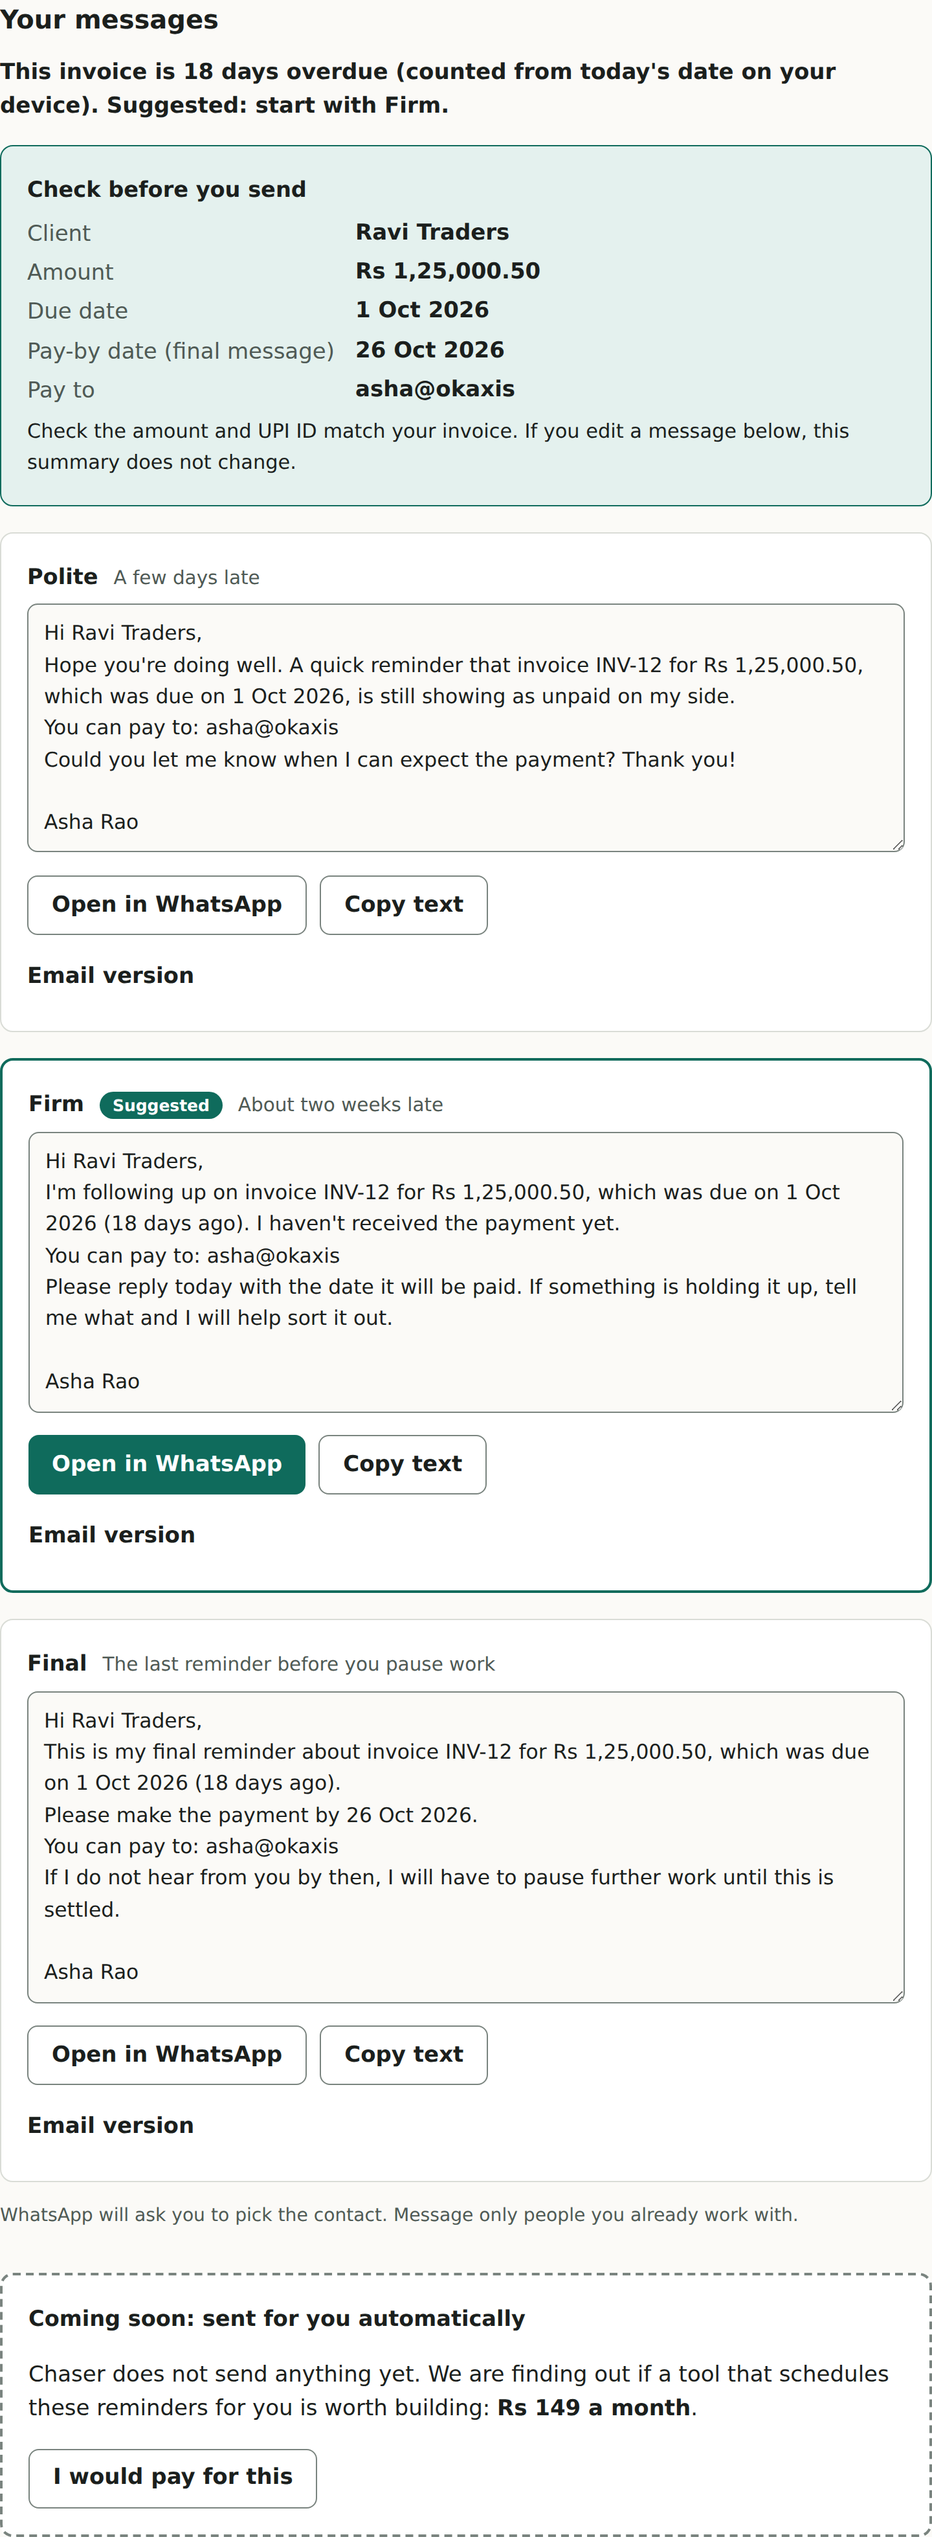
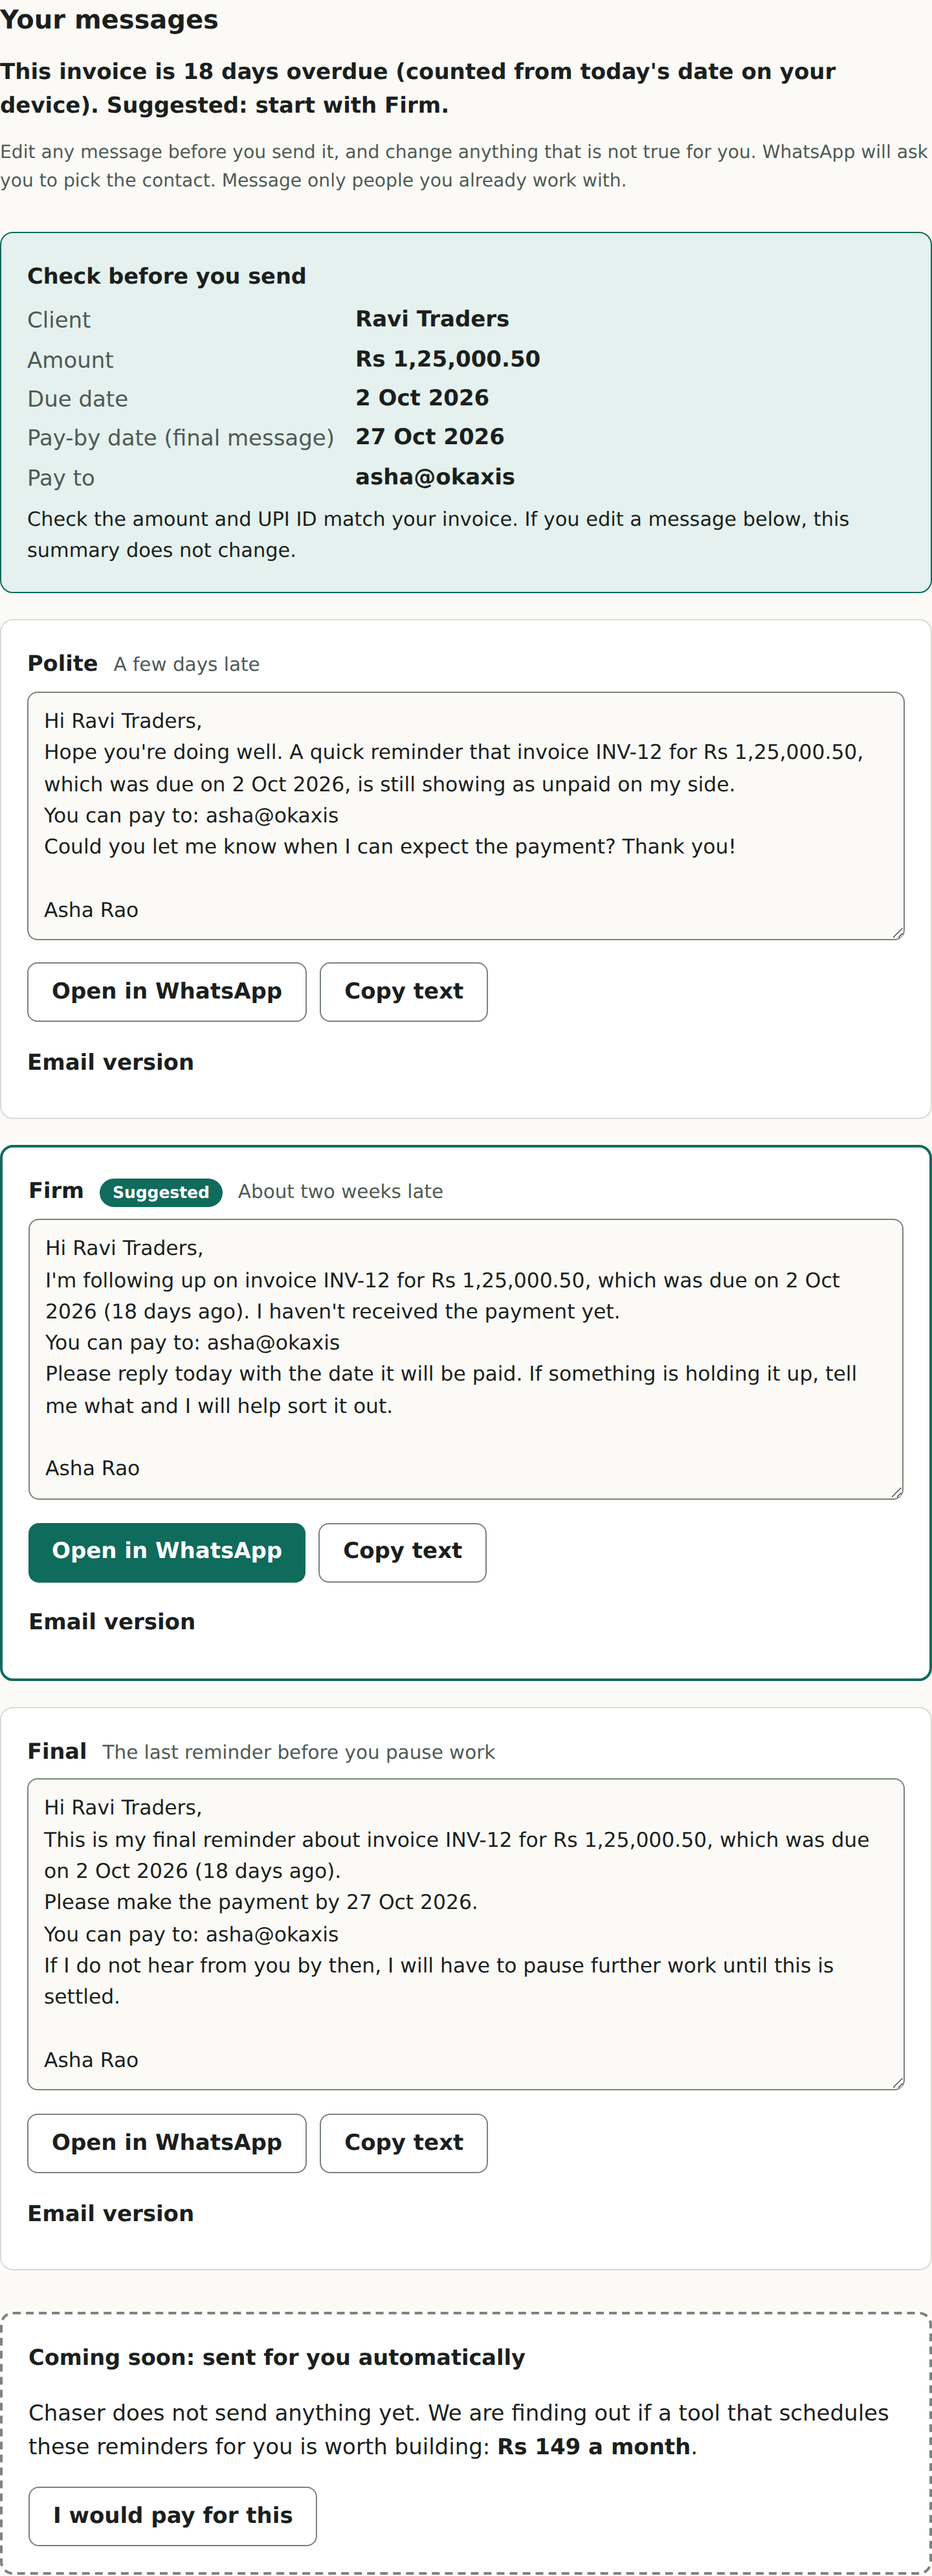
chaser: designer pass round two: rupee sign, copy email, focus after the paid-plan question, hint moved up
Claude-Session: https://claude.ai/code/session_01KHRvdBp9dNMhM5LyW9cT2y

diff --git a/examples/chaser/public/app.js b/examples/chaser/public/app.js
@@ -130,11 +130,17 @@ function messageCard(m, suggested) {
 
   const mail = el("a", { class: "btn", href: mailtoLink(m.email), text: "Open in email" });
   mail.addEventListener("click", () => { track("open_email", m.tone); askSent(); });
+  const copyMail = el("button", { type: "button", class: "secondary", text: "Copy email", "aria-label": `Copy the ${m.label.toLowerCase()} email, subject and text` });
+  copyMail.addEventListener("click", async () => {
+    try { await navigator.clipboard.writeText(`Subject: ${m.email.subject}\n\n${m.email.body}`); say(`${m.label} email copied.`); }
+    catch { say("Copying is blocked here. Select the email text and copy it with your keyboard."); }
+    track("copy", m.tone);
+  });
   const details = el("details", { class: "email" },
     el("summary", { text: "Email version" }),
     el("p", {}, el("strong", { text: "Subject: " }), m.email.subject),
     el("pre", { text: m.email.body }),
-    mail);
+    el("div", { class: "row" }, mail, copyMail));
   const card = el("article", { class: suggested ? "card msg suggested" : "card msg" },
     el("h3", {}, m.label, suggested ? el("span", { class: "tag", text: "Suggested" }) : "", el("span", { class: "when", text: WHEN[m.tone] })),
     ta, el("div", { class: "row" }, wa, copy), details, asked);
@@ -155,6 +161,7 @@ $("pay-intent").addEventListener("click", () => {
   } else {
     $("door-thanks").textContent = "Thanks, noted. It does not exist yet, and the email list is not open.";
   }
+  $("door-thanks").focus();
 });
 
 $("wl").addEventListener("submit", async (e) => {

diff --git a/examples/chaser/public/index.html b/examples/chaser/public/index.html
@@ -68,6 +68,7 @@
   <section id="results" class="results" aria-labelledby="results-h" tabindex="-1" hidden>
     <h2 id="results-h">Your messages</h2>
     <p id="summary" class="summary"></p>
+    <p class="hint after">Edit any message before you send it, and change anything that is not true for you. WhatsApp will ask you to pick the contact. Message only people you already work with.</p>
     <div class="check card" aria-labelledby="check-h">
       <h3 id="check-h">Check before you send</h3>
       <dl id="check"></dl>
@@ -75,14 +76,13 @@
     </div>
     <div id="messages"></div>
     <p id="live" class="sr-only" role="status" aria-live="polite"></p>
-    <p class="hint after">WhatsApp will ask you to pick the contact. Message only people you already work with.</p>
 
     <aside id="door" class="card door" aria-labelledby="door-h">
       <h3 id="door-h">Coming soon: sent for you automatically</h3>
       <p>Chaser does not send anything yet. We are finding out if a tool that schedules these reminders for you is worth building: <strong id="price">Rs 149 a month</strong>.</p>
       <button type="button" id="pay-intent" class="secondary">I would pay for this</button>
       <div id="door-2" hidden>
-        <p id="door-thanks"></p>
+        <p id="door-thanks" tabindex="-1"></p>
         <form id="wl" novalidate autocomplete="off" hidden>
           <div class="field">
             <label for="email">Your email, to hear when it is ready</label>

diff --git a/examples/chaser/e2e/ui.e2e.js b/examples/chaser/e2e/ui.e2e.js
@@ -106,6 +106,20 @@ test("editing a message updates its WhatsApp link", async () => {
   await context.close();
 });
 
+test("review fixes: a rupee sign is accepted, the email text can be copied, and focus moves to the answer after the paid-plan question", async () => {
+  const { context, page } = await newPage(open, { permissions: ["clipboard-read", "clipboard-write"] });
+  await generate(page, { amount: "\u20b925,000" });
+  assert.match(await page.locator("#check").innerText(), /Rs 25,000/);
+  const card = page.locator("article.msg").nth(1);
+  await card.locator("summary").click();
+  await card.getByRole("button", { name: /Copy the firm email/ }).click();
+  const copied = await page.evaluate(() => navigator.clipboard.readText());
+  assert.match(copied, /^Subject: .+\n\n[\s\S]*Rs 25,000/);
+  await page.getByRole("button", { name: "I would pay for this" }).click();
+  assert.equal(await page.evaluate(() => document.activeElement?.id), "door-thanks");
+  await context.close();
+});
+
 test("validation: an error summary takes focus, fields are marked invalid, links jump to the field, errors clear when fixed", async () => {
   const { context, page } = await newPage();
   await page.getByRole("button", { name: "Write my messages" }).click();

diff --git a/examples/chaser/tests/core.test.js b/examples/chaser/tests/core.test.js
@@ -17,6 +17,7 @@ const text = (r) => r.messages.map((m) => `${m.whatsapp}\n${m.email.subject}\n${
 test("amounts: Indian grouping at every size, decimals only when typed", () => {
   const cases = [["1", "Rs 1"], ["999", "Rs 999"], ["1000", "Rs 1,000"], ["25000", "Rs 25,000"], ["125000", "Rs 1,25,000"],
     ["1,25,000.50", "Rs 1,25,000.50"], ["12345678", "Rs 1,23,45,678"], ["1000000000", "Rs 1,00,00,00,000"], ["0.5", "Rs 0.50"], ["Rs 5000", "Rs 5,000"]];
+  cases.push(["₹25,000", "Rs 25,000"], ["₹ 1,25,000.50", "Rs 1,25,000.50"]);
   for (const [input, want] of cases) assert.equal(formatRupees(parseAmountToPaise(input)), want, input);
 });
 

diff --git a/examples/chaser/src/core/format.js b/examples/chaser/src/core/format.js
@@ -5,7 +5,7 @@ export const MAX_RUPEES = 1_000_000_000; // Rs 100 crore
 /** "1,25,000.50" or "125000" -> amount in paise (integer), or null when not a valid positive amount. */
 export function parseAmountToPaise(text) {
   if (typeof text !== "string") return null;
-  const t = text.trim().replace(/^(rs\.?|inr)\s*/i, "");
+  const t = text.trim().replace(/^(₹|rs\.?|inr)\s*/i, "");
   if (!/^\d{1,3}(,\d{2,3})*(\.\d{1,2})?$|^\d+(\.\d{1,2})?$/.test(t)) return null;
   const [whole, frac = ""] = t.replace(/,/g, "").split(".");
   const paise = Number(whole) * 100 + Number(frac.padEnd(2, "0"));

diff --git a/examples/chaser/public/styles.css b/examples/chaser/public/styles.css
@@ -57,3 +57,6 @@ details.email { margin-top: 10px; } details.email summary { cursor: pointer; fon
 @media (max-width: 380px) { .wrap { padding: 0 12px; } }
 #results:focus { outline: none; }
 @media (prefers-reduced-motion: no-preference) { button, a.btn { transition: filter .12s, background .12s; } }
+
+#errors a { color: var(--error); }
+#door-thanks:focus { outline: none; }

diff --git a/examples/chaser/docs/design-critique.md b/examples/chaser/docs/design-critique.md
@@ -19,3 +19,26 @@ Reviewer: a fresh read-only subagent that did not build the page. It saw screens
 **Kept as is** (reviewer's "works" list): the headline and lede, plain "Rs" and Indian grouping, the single-column phone form with 46px inputs and visible labels, the error summary with jump links, the check block placed before the messages, the copy fallback, the honest "Chaser does not send anything yet" door copy.
 
 **Not checked by anyone:** real Android rendering and fonts, Devanagari and other Unicode names, the native Android date picker, the keyboard overlay, actual WhatsApp and mailto behaviour, the 200% zoom layout, hover states, load time. The automated checks (axe in light and dark, 375px width, 44px targets, keyboard-only path) passed after the changes.
+
+## Designer pass on the running page (second round, 2026-10-20)
+
+Evidence: `docs/screenshots/before/` (the build before the first critique, regenerated from commit 602c5f1) against `docs/screenshots/` (now). Two fresh read-only reviewers, neither of whom built the page. Their reports are findings, not instructions.
+
+**5-second test** (reviewer saw only the two first-screen screenshots). Got right: it turns one unpaid invoice into three reminders for WhatsApp and email, for freelancers in India. Hesitations: the privacy box asks for trust before any payoff; "send yourself" can read as "send to yourself"; the sample quote looks like a quotation, not example output; no button or preview of the three tones on the first screen. Not changed: the button sits below the form on purpose, and the date field format follows the visitor's browser (the screenshots use a US locale).
+
+**10-problem review** (reviewer drove the running page at 1100px and 375px, light and dark):
+
+| # | Finding | Status |
+|---|---|---|
+| 1 | Greeting uses the full client name ("Hi Ravi Kumar"), sample says "Hi Ravi" | **Open, owner decision.** First-word greetings break on "Dr Rao" and company names; a "what do you call them" field is the safer fix |
+| 2 | The rupee sign was rejected; a bare phone number is not a valid UPI ID | **Half fixed.** The rupee sign is now accepted (test added). The phone-number hint is open |
+| 3 | Email version could not be copied | **Fixed.** "Copy email" copies subject and text (browser test added) |
+| 4 | Fixed wording; "pause further work" is wrong if work is finished | **Mitigated.** Line added above the cards: edit anything that is not true for you. A "work is ongoing" switch is open |
+| 5 | Invoice not yet due still shows Firm and Final cards | **Open, owner decision** (hide behind "show later reminders") |
+| 6 | Writing the messages again silently overwrites edits | **Open** (confirm before replacing edited text) |
+| 7 | Error summary duplicates inline errors, uses default link colours | **Half fixed.** Links now use the theme error colour. Duplication kept: the summary is how a screen reader and keyboard user finds the first error |
+| 8 | Focus lost to the page after "I would pay for this" | **Fixed.** Focus moves to the confirmation (browser test added) |
+| 9 | "Pick the contact" hint far from the buttons | **Fixed.** Moved under the summary, before the cards |
+| 10 | On a phone the suggested card is second, results start far down | **Open** (suggested card first) |
+
+After the changes: 39 of 39 unit tests, 18 of 18 browser tests (axe included, light and dark) pass.
